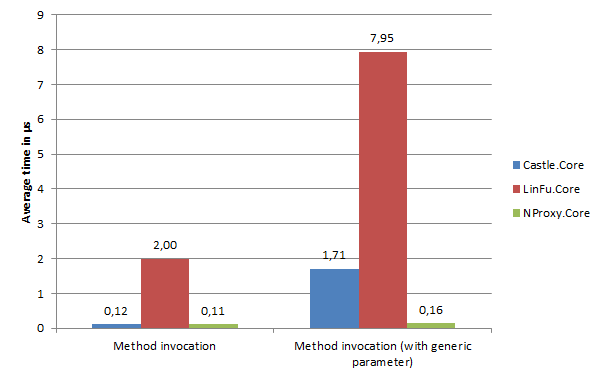
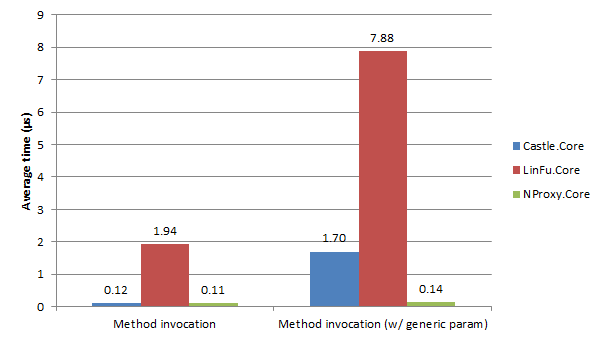
Minor changes.

diff --git a/Source/Test/NProxy.Core.Test/Performance/Report.cs b/Source/Test/NProxy.Core.Test/Performance/Report.cs
@@ -17,6 +17,7 @@
 //
 
 using System;
+using System.Globalization;
 using System.IO;
 using System.Reflection;
 using System.Text;
@@ -52,7 +53,7 @@ namespace NProxy.Core.Test.Performance
         {
             var writer = new StreamWriter(path, false, Encoding.UTF8);
 
-            writer.WriteLine("\"Name\";\"Version\";\"Scenario ID\";\"Scenario name\";\"Scenario description\";\"Iterations\";\"Total time in ms\";\"Average time in µs\"");
+            writer.WriteLine("\"Artifact\";\"Version\";\"Scenario\";\"Description\";\"Iterations\";\"Total time (ms)\";\"Average time (ms)\";\"Average time (µs)\"");
 
             return writer;
         }
@@ -75,10 +76,10 @@ namespace NProxy.Core.Test.Performance
             WriteValues(assemblyName.Name, version, scenario, iterations, elapsedTime);
         }
 
-        public void WriteValues(string name, string version, Scenario scenario, int iterations, TimeSpan elapsedTime)
+        private void WriteValues(string artifact, string version, Scenario scenario, int iterations, TimeSpan elapsedTime)
         {
-            if (name == null)
-                throw new ArgumentNullException("name");
+            if (artifact == null)
+                throw new ArgumentNullException("artifact");
 
             if (version == null)
                 throw new ArgumentNullException("version");
@@ -89,15 +90,18 @@ namespace NProxy.Core.Test.Performance
             var totalMilliseconds = elapsedTime.TotalMilliseconds;
             var averageMicroseconds = (totalMilliseconds*1000)/iterations;
 
-            Writer.WriteLine("\"{0}\";\"{1}\";{2};\"{3}\";\"{4}\";{5};{6:0.000};{7:0.000}",
-                             name,
-                             version,
-                             scenario.Id,
-                             scenario.Name,
-                             scenario.Description,
-                             iterations,
-                             totalMilliseconds,
-                             averageMicroseconds);
+            var line = String.Format(CultureInfo.InvariantCulture,
+                                     "\"{0}\";\"{1}\";\"{2}\";\"{3}\";{4};{5:0.000};{6:0.000};{7:0.000}",
+                                     artifact,
+                                     version,
+                                     scenario.Name,
+                                     scenario.Description,
+                                     iterations,
+                                     totalMilliseconds,
+                                     averageMicroseconds/1000,
+                                     averageMicroseconds);
+
+            Writer.WriteLine(line);
         }
     }
 }

diff --git a/Source/Test/NProxy.Core.Test/Performance/Scenario.cs b/Source/Test/NProxy.Core.Test/Performance/Scenario.cs
@@ -23,42 +23,34 @@ namespace NProxy.Core.Test.Performance
     internal sealed class Scenario
     {
         public static readonly Scenario ProxyGeneration = new Scenario(
-            1,
             "ProxyGeneration",
             "Proxy generation");
 
         public static readonly Scenario ProxyGenerationWithGenericParameter = new Scenario(
-            2,
             "ProxyGenerationWithGenericParameter",
             "Proxy generation (w/ generic param)");
 
         public static readonly Scenario ProxyInstantiation = new Scenario(
-            3,
             "ProxyInstantiation",
             "Proxy instantiation");
 
         public static readonly Scenario ProxyInstantiationWithGenericParameter = new Scenario(
-            4,
             "ProxyInstantiationWithGenericParameter",
             "Proxy instantiation (w/ generic param)");
 
         public static readonly Scenario MethodInvocation = new Scenario(
-            5,
             "MethodInvocation",
             "Method invocation");
 
         public static readonly Scenario MethodInvocationWithGenericParameter = new Scenario(
-            6,
             "MethodInvocationWithGenericParameter",
             "Method invocation (w/ generic param)");
-
-        private readonly int _id;
 
         private readonly string _name;
 
         private readonly string _description;
 
-        private Scenario(int id, string name, string description)
+        private Scenario(string name, string description)
         {
             if (name == null)
                 throw new ArgumentNullException("name");
@@ -66,14 +58,8 @@ namespace NProxy.Core.Test.Performance
             if (description == null)
                 throw new ArgumentNullException("description");
 
-            _id = id;
             _name = name;
             _description = description;
-        }
-
-        public int Id
-        {
-            get { return _id; }
         }
 
         public string Name

diff --git a/Documentation/PERFORMANCE.md b/Documentation/PERFORMANCE.md
@@ -42,24 +42,24 @@ Details to the performed test can be found in the table below.
 
 | Library   | Version | Scenario                             | Iterations | Total time in ms | Average time in µs |
 |:----------|--------:|:-------------------------------------|-----------:|-----------------:|-------------------:|
-|Castle.Core|  v 3.1.0|Proxy generation                      |        1000|          5008.675|            5008.675|
-|LinFu.Core |  v 2.3.0|Proxy generation                      |        1000|          6818.439|            6818.439|
-|NProxy.Core|  v 1.2.1|Proxy generation                      |        1000|          2109.058|            2109.058|
-|Castle.Core|  v 3.1.0|Proxy generation (w/ generic param)   |        1000|          5030.624|            5030.624|
-|LinFu.Core |  v 2.3.0|Proxy generation (w/ generic param)   |        1000|          7858.363|            7858.363|
-|NProxy.Core|  v 1.2.1|Proxy generation (w/ generic param)   |        1000|          2164.682|            2164.682|
-|Castle.Core|  v 3.1.0|Proxy instantiation                   |     1000000|          6389.657|               6.390|
-|LinFu.Core |  v 2.3.0|Proxy instantiation                   |     1000000|          1244.126|               1.244|
-|NProxy.Core|  v 1.2.1|Proxy instantiation                   |     1000000|          4112.233|               4.112|
-|Castle.Core|  v 3.1.0|Proxy instantiation (w/ generic param)|     1000000|          6403.285|               6.403|
-|LinFu.Core |  v 2.3.0|Proxy instantiation (w/ generic param)|     1000000|          1219.634|               1.220|
-|NProxy.Core|  v 1.2.1|Proxy instantiation (w/ generic param)|     1000000|          4137.089|               4.137|
-|Castle.Core|  v 3.1.0|Method invocation                     |    10000000|          1186.243|               0.119|
-|LinFu.Core |  v 2.3.0|Method invocation                     |    10000000|         19998.139|               2.000|
-|NProxy.Core|  v 1.2.1|Method invocation                     |    10000000|          1104.409|               0.110|
-|Castle.Core|  v 3.1.0|Method invocation (w/ generic param)  |    10000000|         17118.276|               1.712|
-|LinFu.Core |  v 2.3.0|Method invocation (w/ generic param)  |    10000000|         79450.488|               7.945|
-|NProxy.Core|  v 1.2.1|Method invocation (w/ generic param)  |    10000000|          1567.495|               0.157|
+|Castle.Core|  v 3.1.0|Proxy generation                      |        1000|          4887.234|            4887.234|
+|LinFu.Core |  v 2.3.0|Proxy generation                      |        1000|          6679.920|            6679.920|
+|NProxy.Core|  v 1.2.1|Proxy generation                      |        1000|          2041.065|            2041.065|
+|Castle.Core|  v 3.1.0|Proxy generation (w/ generic param)   |        1000|          4900.969|            4900.969|
+|LinFu.Core |  v 2.3.0|Proxy generation (w/ generic param)   |        1000|          7690.109|            7690.109|
+|NProxy.Core|  v 1.2.1|Proxy generation (w/ generic param)   |        1000|          2069.943|            2069.943|
+|Castle.Core|  v 3.1.0|Proxy instantiation                   |     1000000|          6222.884|               6.223|
+|LinFu.Core |  v 2.3.0|Proxy instantiation                   |     1000000|          1218.432|               1.218|
+|NProxy.Core|  v 1.2.1|Proxy instantiation                   |     1000000|          4015.552|               4.016|
+|Castle.Core|  v 3.1.0|Proxy instantiation (w/ generic param)|     1000000|          6271.498|               6.271|
+|LinFu.Core |  v 2.3.0|Proxy instantiation (w/ generic param)|     1000000|          1206.713|               1.207|
+|NProxy.Core|  v 1.2.1|Proxy instantiation (w/ generic param)|     1000000|          3998.120|               3.998|
+|Castle.Core|  v 3.1.0|Method invocation                     |    10000000|          1171.201|               0.117|
+|LinFu.Core |  v 2.3.0|Method invocation                     |    10000000|         19358.717|               1.936|
+|NProxy.Core|  v 1.2.1|Method invocation                     |    10000000|          1113.396|               0.111|
+|Castle.Core|  v 3.1.0|Method invocation (w/ generic param)  |    10000000|         17030.596|               1.703|
+|LinFu.Core |  v 2.3.0|Method invocation (w/ generic param)  |    10000000|         78770.864|               7.877|
+|NProxy.Core|  v 1.2.1|Method invocation (w/ generic param)  |    10000000|          1371.717|               0.137|
 
 All tests have been performed under Microsoft .NET 4.0.30319 and can be found [here](https://github.com/mtamme/NProxy/tree/master/Source/Test/NProxy.Core.Test/Performance).
 
